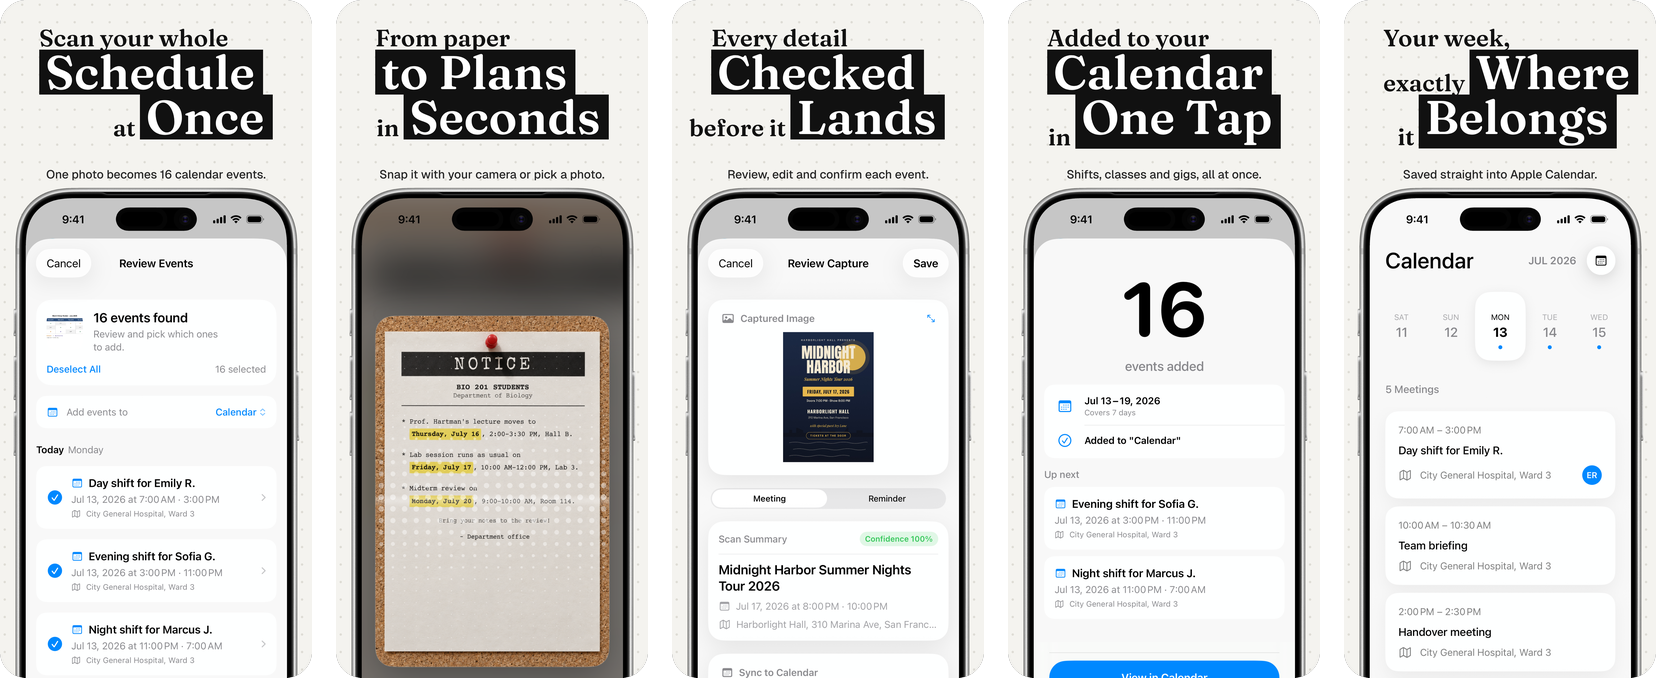
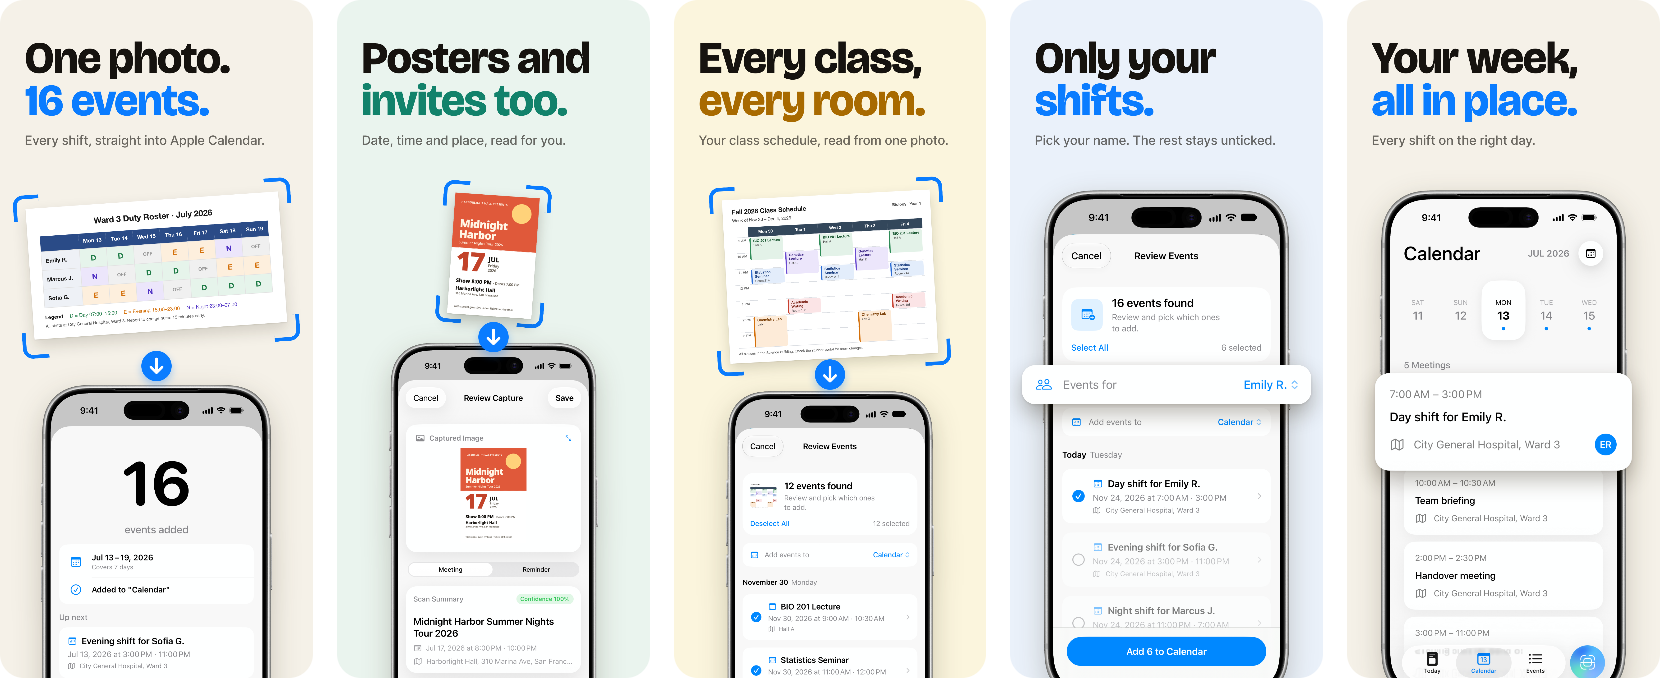
Profile: current Lumical store art, a full Gitea Mirror dashboard, GoPayLocal's dashboard
Lumical shows its live App Store header ("Paper in. Calendar out.") and five
of its live 2.2 iPhone screenshots, made the way Yasu's are, with copy to
match. Gitea Mirror shows the dashboard its own README uses instead of the
empty one, its current description, and links to its source and docs.
GoPayLocal adds its dashboard, labelled as sample data, under the banner.

Claude-Session: https://claude.ai/code/session_01L2XvzdWfxeKtJnPoo1t57u

diff --git a/profile/README.md b/profile/README.md
@@ -22,6 +22,12 @@
   </picture>
 </a>
 
+<a href='https://gopaylocal.com'>
+  <img src="./products/gopaylocal/dashboard.png" alt="The GoPayLocal dashboard with sample data: banner views, discount given, countries reached, and the top countries by banner views with their clicks, codes copied and redemptions" />
+</a>
+
+<sub>The dashboard, shown with sample data.</sub>
+
 <a href='https://gopaylocal.com'><img src="https://img.shields.io/badge/Start_free-gopaylocal.com-E42313?style=for-the-badge" alt="Start free at gopaylocal.com" /></a> <a href='https://github.com/RayLabsHQ/gopaylocal'><img src="https://img.shields.io/badge/Source_code-GitHub-111111?style=for-the-badge&logo=github" alt="GoPayLocal's source code on GitHub" /></a> <a href='https://docs.gopaylocal.com'><img src="https://img.shields.io/badge/Docs-docs.gopaylocal.com-111111?style=for-the-badge" alt="GoPayLocal docs" /></a>
 
 ### [Yasu: Stress & HRV for Watch](https://yasu.raylabs.io)
@@ -40,14 +46,14 @@
 
 ### [Lumical: Scan to Calendar](https://lumical.app)
 
-**Scan your whole schedule at once.** Photograph a paper roster, a meeting invite, a poster or a flyer, and Lumical turns it into calendar events in seconds, with no typing. Review every event, then save them all to Apple Calendar with one tap. When the schedule changes, scan it again and only what moved is updated.
+**Paper in. Calendar out.** Photograph a shift roster, a class timetable, a poster or an invite, and Lumical turns it into calendar events in seconds, with no typing. Pick your name and only your shifts stay ticked. Review every event, then save them all to Apple Calendar with one tap. When the schedule changes, scan it again and only what moved is updated.
 
 <a href='https://apps.apple.com/us/app/lumical-scan-to-calendar/id6753274309'>
-  <img src="./products/lumical/header.png" alt="Lumical: Scan your whole schedule at once" />
+  <img src="./products/lumical/header.png" alt="Lumical: Paper in. Calendar out." />
 </a>
 
 <a href='https://apps.apple.com/us/app/lumical-scan-to-calendar/id6753274309'>
-  <img src="./products/lumical/screenshots.png" alt="Lumical on iPhone: Scan your whole schedule at once. From paper to plans in seconds. Every detail checked before it lands. Added to your calendar in one tap. Your week, exactly where it belongs." />
+  <img src="./products/lumical/screenshots.png" alt="Lumical on iPhone: One photo, 16 events. Posters and invites too. Every class, every room. Only your shifts. Your week, all in place." />
 </a>
 
 <a href='https://apps.apple.com/us/app/lumical-scan-to-calendar/id6753274309'><img src="./badges/app-store.svg" height="48" alt="Download Lumical on the App Store" /></a>
@@ -56,15 +62,13 @@
 
 ### [Gitea Mirror](https://github.com/RayLabsHQ/gitea-mirror)
 
-Automatically mirror repositories from GitHub to your self-hosted Gitea instance. Features real-time syncing, organization support, and a beautiful dashboard.
+Gitea Mirror keeps a self-hosted copy of your repositories. Connect GitHub (or GitLab, Gitea, Forgejo or any git host), pick a Gitea or Forgejo server, and it mirrors your repositories, organizations and starred projects there, with issues, pull requests, releases, wiki and LFS if you want them, and keeps them in sync on a schedule.
 
 <a href='https://github.com/RayLabsHQ/gitea-mirror'>
-  <picture>
-    <source srcset="./products/gitea-mirror/dashboard.png" media="(prefers-color-scheme: dark)" />
-    <source srcset="./products/gitea-mirror/dashboard-light.png" media="(prefers-color-scheme: light)" />
-    <img src="./products/gitea-mirror/dashboard-light.png" alt="Gitea Mirror" />
-  </picture>
+  <img src="./products/gitea-mirror/dashboard.png" alt="The Gitea Mirror dashboard: eight imported repositories, five mirrored, three organizations, the repository list with each one's mirror status, and recent activity" />
 </a>
+
+<a href='https://github.com/RayLabsHQ/gitea-mirror'><img src="https://img.shields.io/badge/Source_code-GitHub-111111?style=for-the-badge&logo=github" alt="Gitea Mirror's source code on GitHub" /></a> <a href='https://gitea-mirror.raylabs.io/docs/'><img src="https://img.shields.io/badge/Docs-gitea--mirror.raylabs.io-111111?style=for-the-badge" alt="Gitea Mirror docs" /></a>
 
 ## What We Do
 
